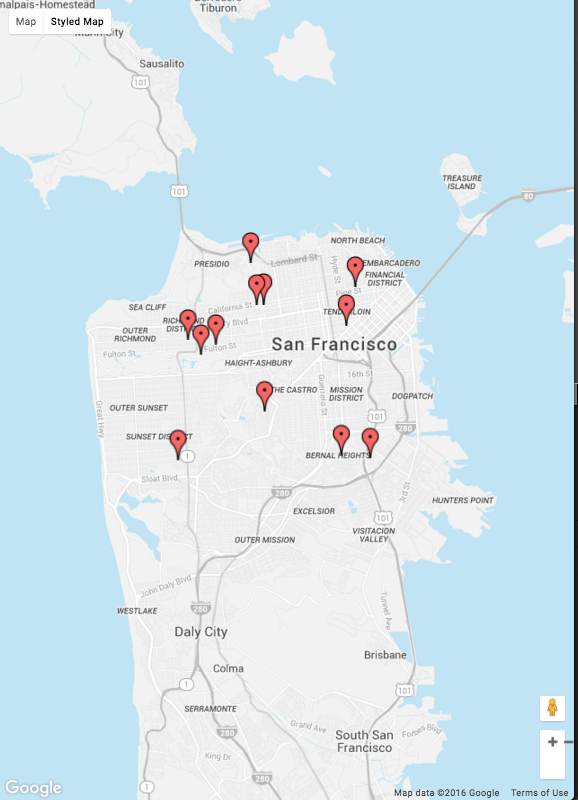
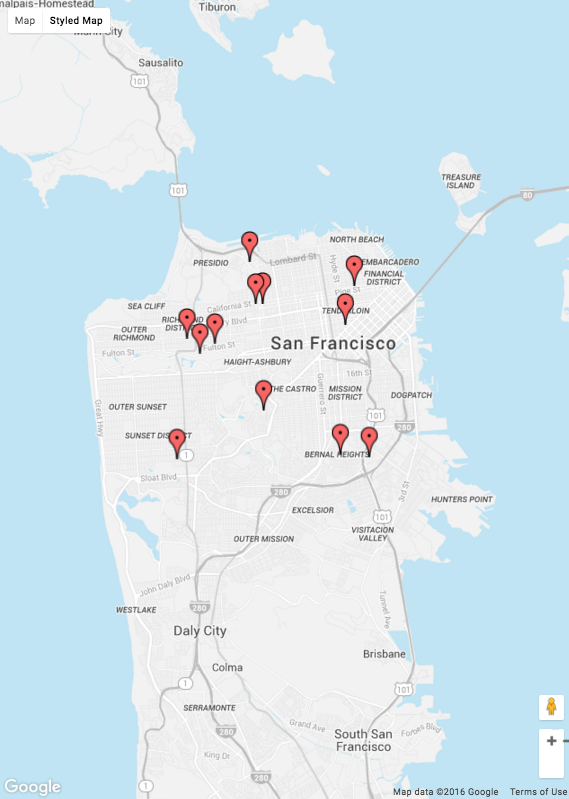
add maps screenshots

diff --git a/README.md b/README.md
@@ -14,7 +14,7 @@ RotationsExchanger is a web application designed for medical students to easily 
 
 #### Vivid display of all photos, rooms and locations map in multiple selectable views catering to your various preferences
 ![show_slider] ![show_grid]
-![simple_map_crop] ![trad_map_crop]
+![maps]
 
 #### Complete single page application with authentication and instant error handling to improve your user experience
 ![error_sign_up] ![add_form_feedback]
@@ -47,8 +47,7 @@ Easily approve or deny requests with instant status and page updates
 [requests_pending]: ./screenshots/requests_pending.png
 [listings]: ./screenshots/listings.png
 [filtered_search]: ./screenshots/filtered_search.png
-[simple_map_crop]: ./screenshots/simple_map_crop.png
-[trad_map_crop]: ./screenshots/trad_map_crop.png
+[maps]: ./screenshots/maps.png
 
 ## Technical Features
 
